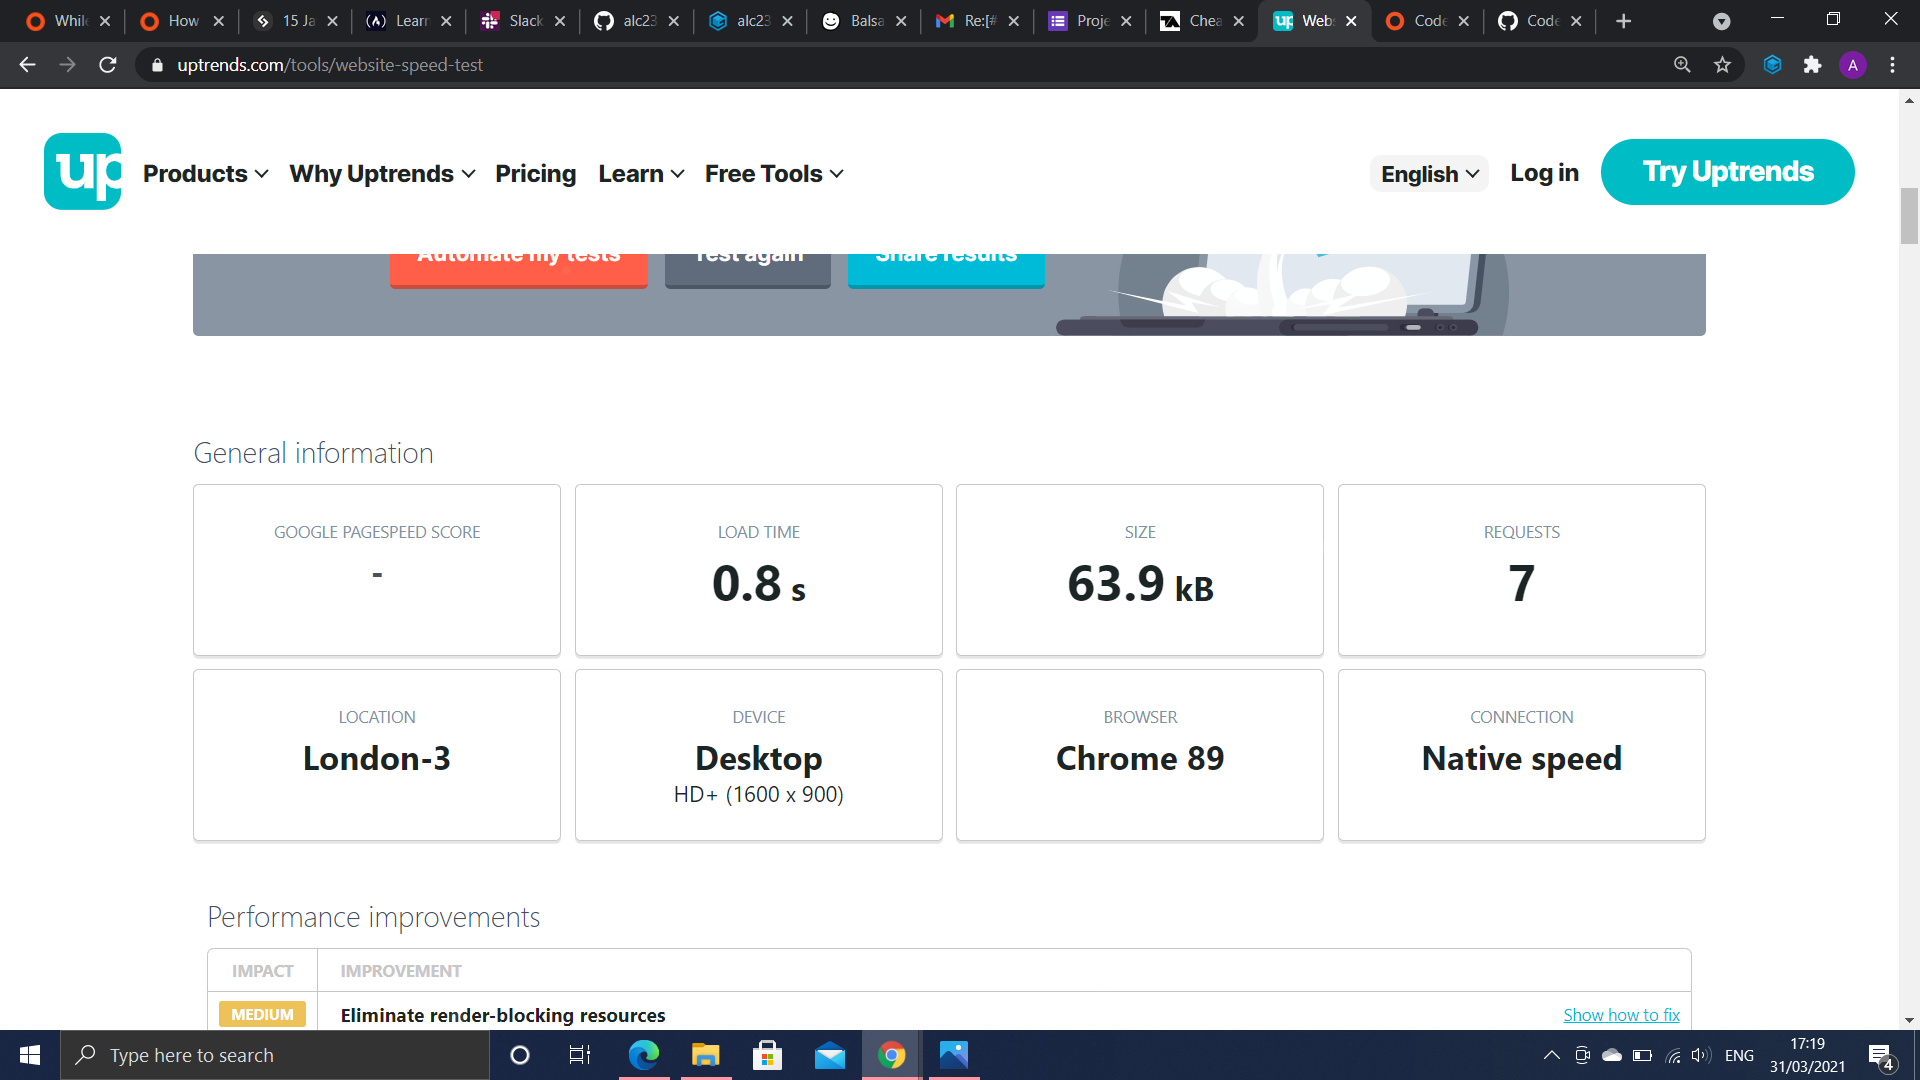
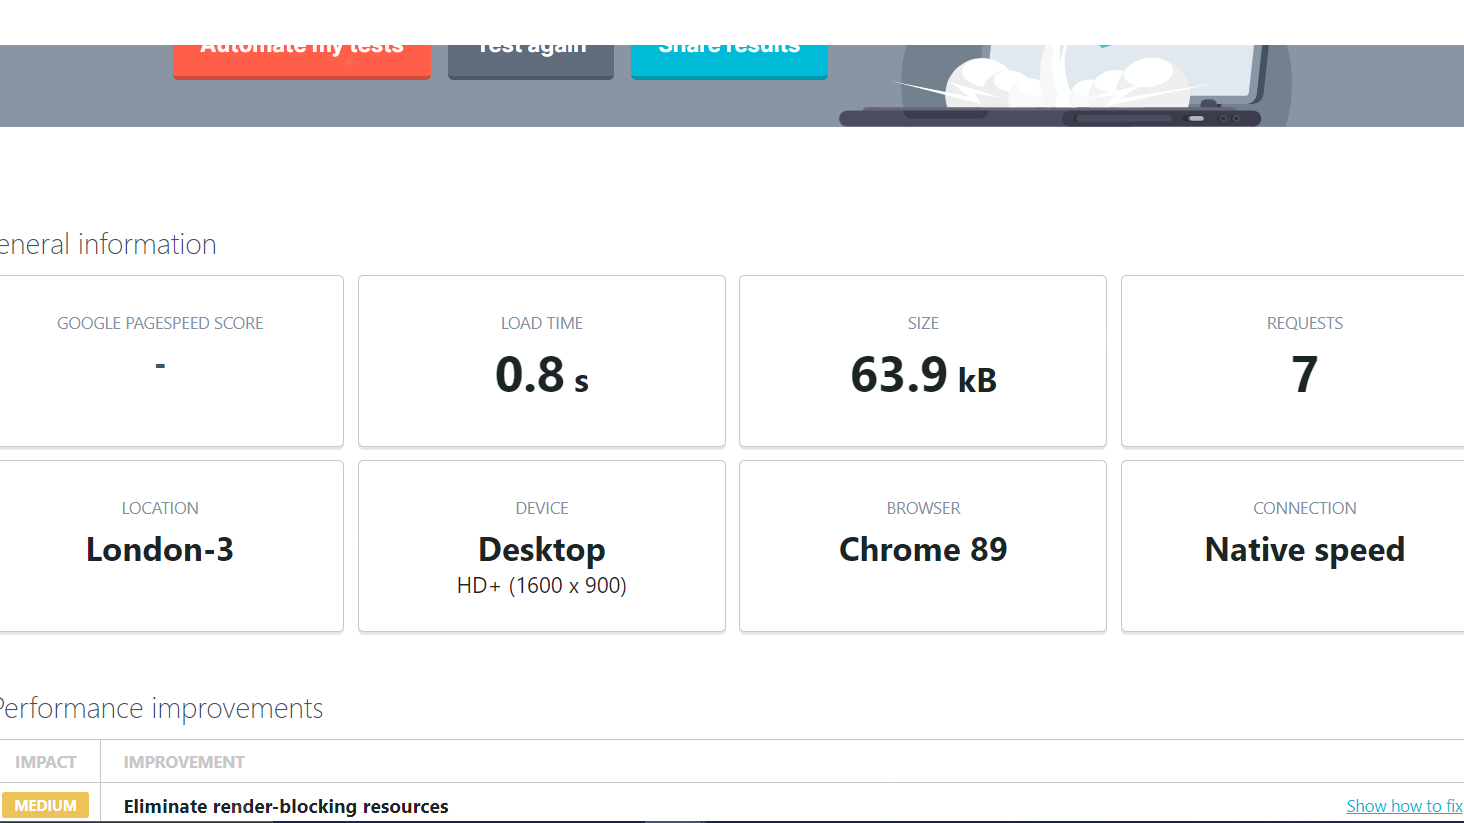
replacing broken images. Update readMe

diff --git a/README.md b/README.md
@@ -84,7 +84,8 @@ At the top of the Repository (not top of page), locate the "Settings" Button on 
 All images were taken from google.
 
 The speed of the page was tested here at [UpTrends](https://www.uptrends.com/tools/website-speed-test)
-![alt text](https://github.com/alc232/Who-are-You/images/speed.png)
+
+![Speed Image](images/speed.png)
 
 I used [w3c](https://www.w3.org/) to test the HTML and CSS.
 
